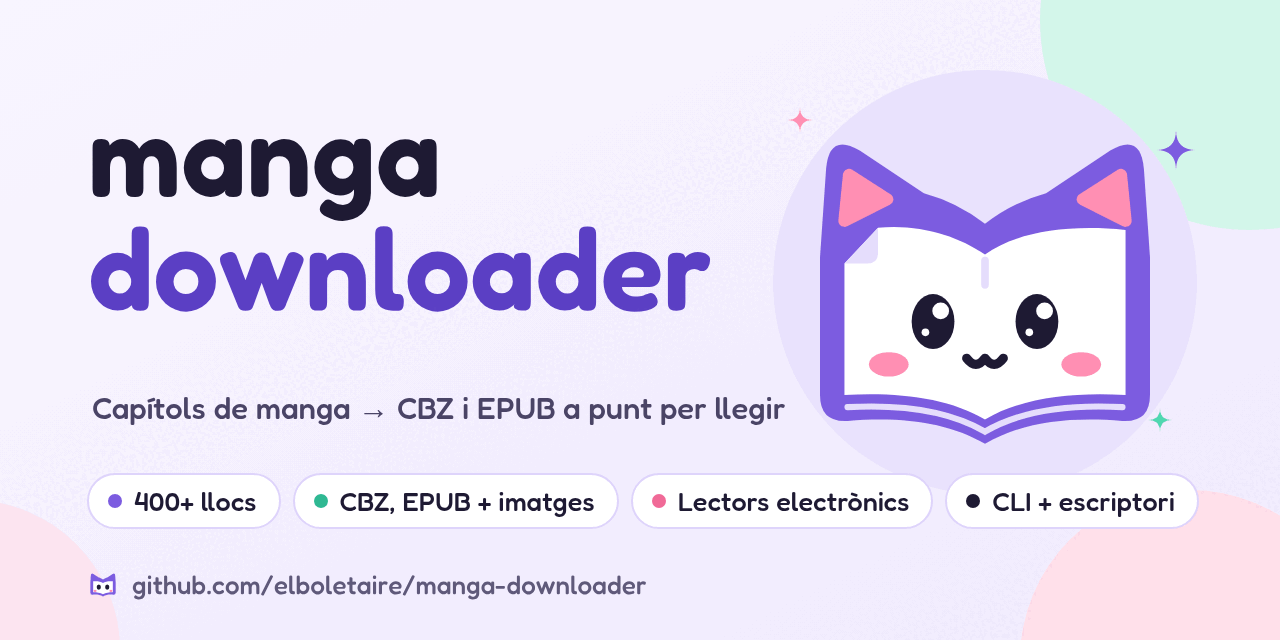
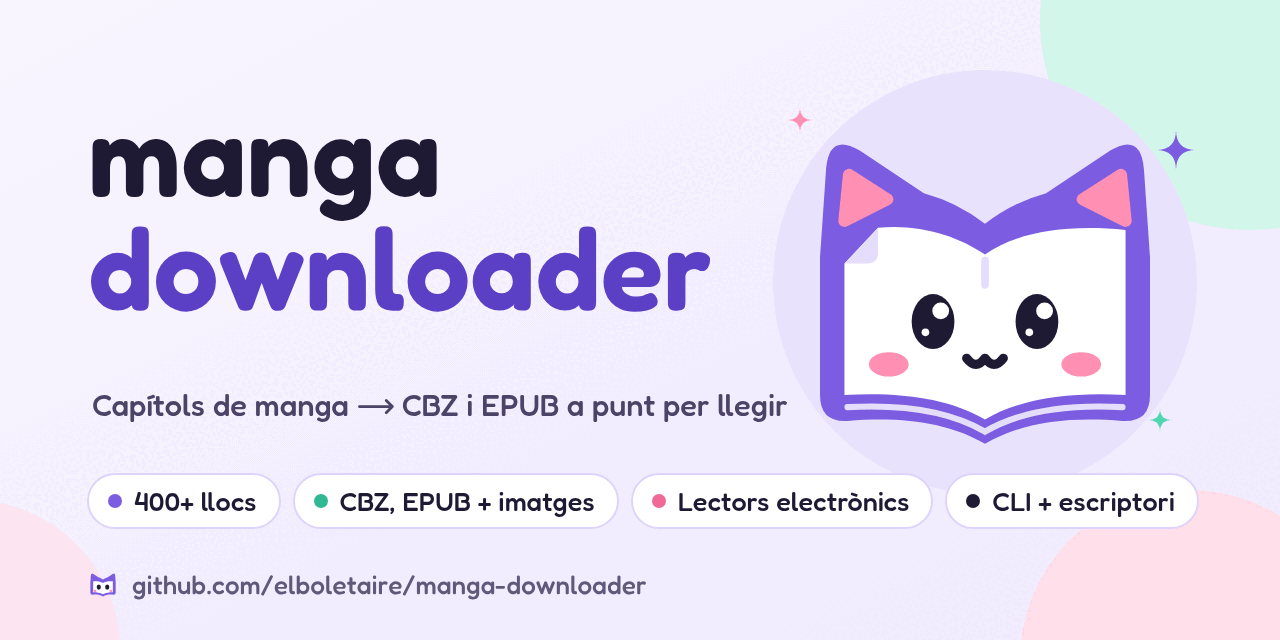
fix(website): draw the social cards' tagline arrow from the master

Changed region(s): [[0.0625, 0.5938, 0.625, 0.6562]]

diff --git a/website/build/opengraph/card.html b/website/build/opengraph/card.html
@@ -24,14 +24,22 @@
       .tagline {
         position: absolute;
         left: 92px;
-        top: 389px;
+        top: 386.5px;
         margin: 0;
         font-family: %TAGLINE_FONT%;
         font-weight: %TAGLINE_WEIGHT%;
-        font-size: 33px;
+        font-size: 33.3px;
         line-height: 1.2;
         color: #4a4466;
         white-space: nowrap;
+      }
+      .arrow {
+        display: inline-block;
+        vertical-align: middle;
+        margin: 0 8px 0 9px;
+        overflow: visible;
+        position: relative;
+        top: -1.5px;
       }
       .chips {
         position: absolute;
@@ -86,7 +94,7 @@
       const MAX_WIDTH = 700;
       document.fonts.ready.then(() => {
         const tagline = document.querySelector('.tagline');
-        for (let size = 33; size > 18 && tagline.getBoundingClientRect().width > MAX_WIDTH; size -= 0.5) {
+        for (let size = 33.3; size > 18 && tagline.getBoundingClientRect().width > MAX_WIDTH; size -= 0.5) {
           tagline.style.fontSize = size + 'px';
         }
       });
